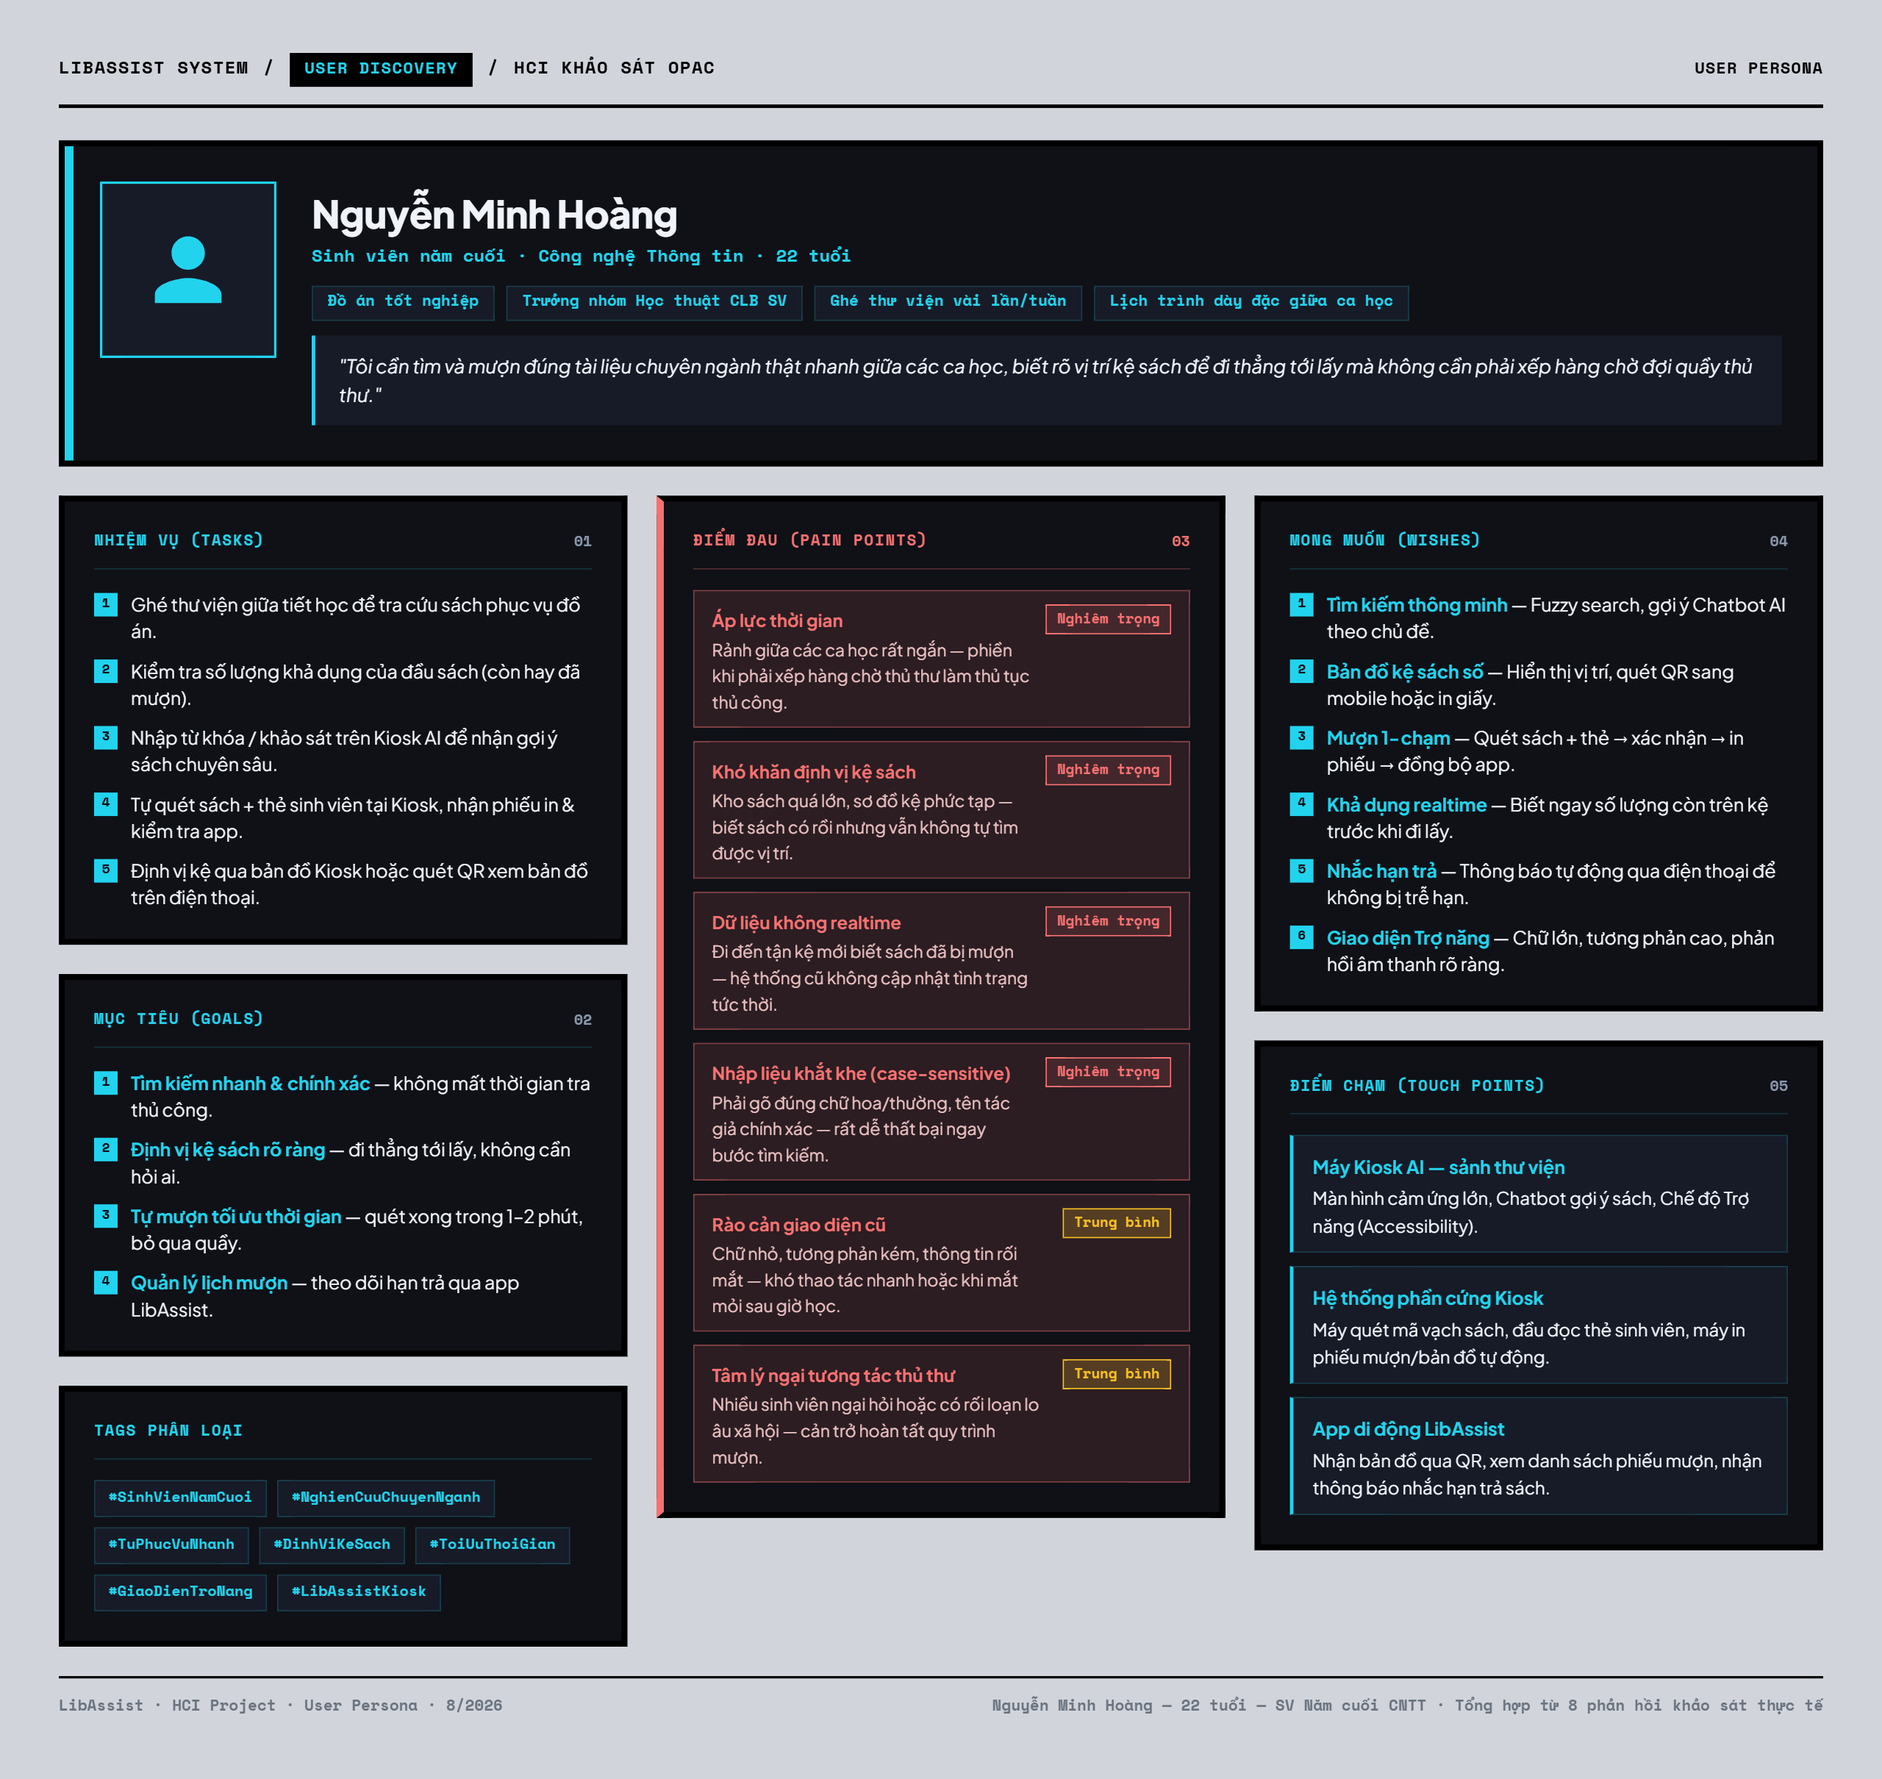
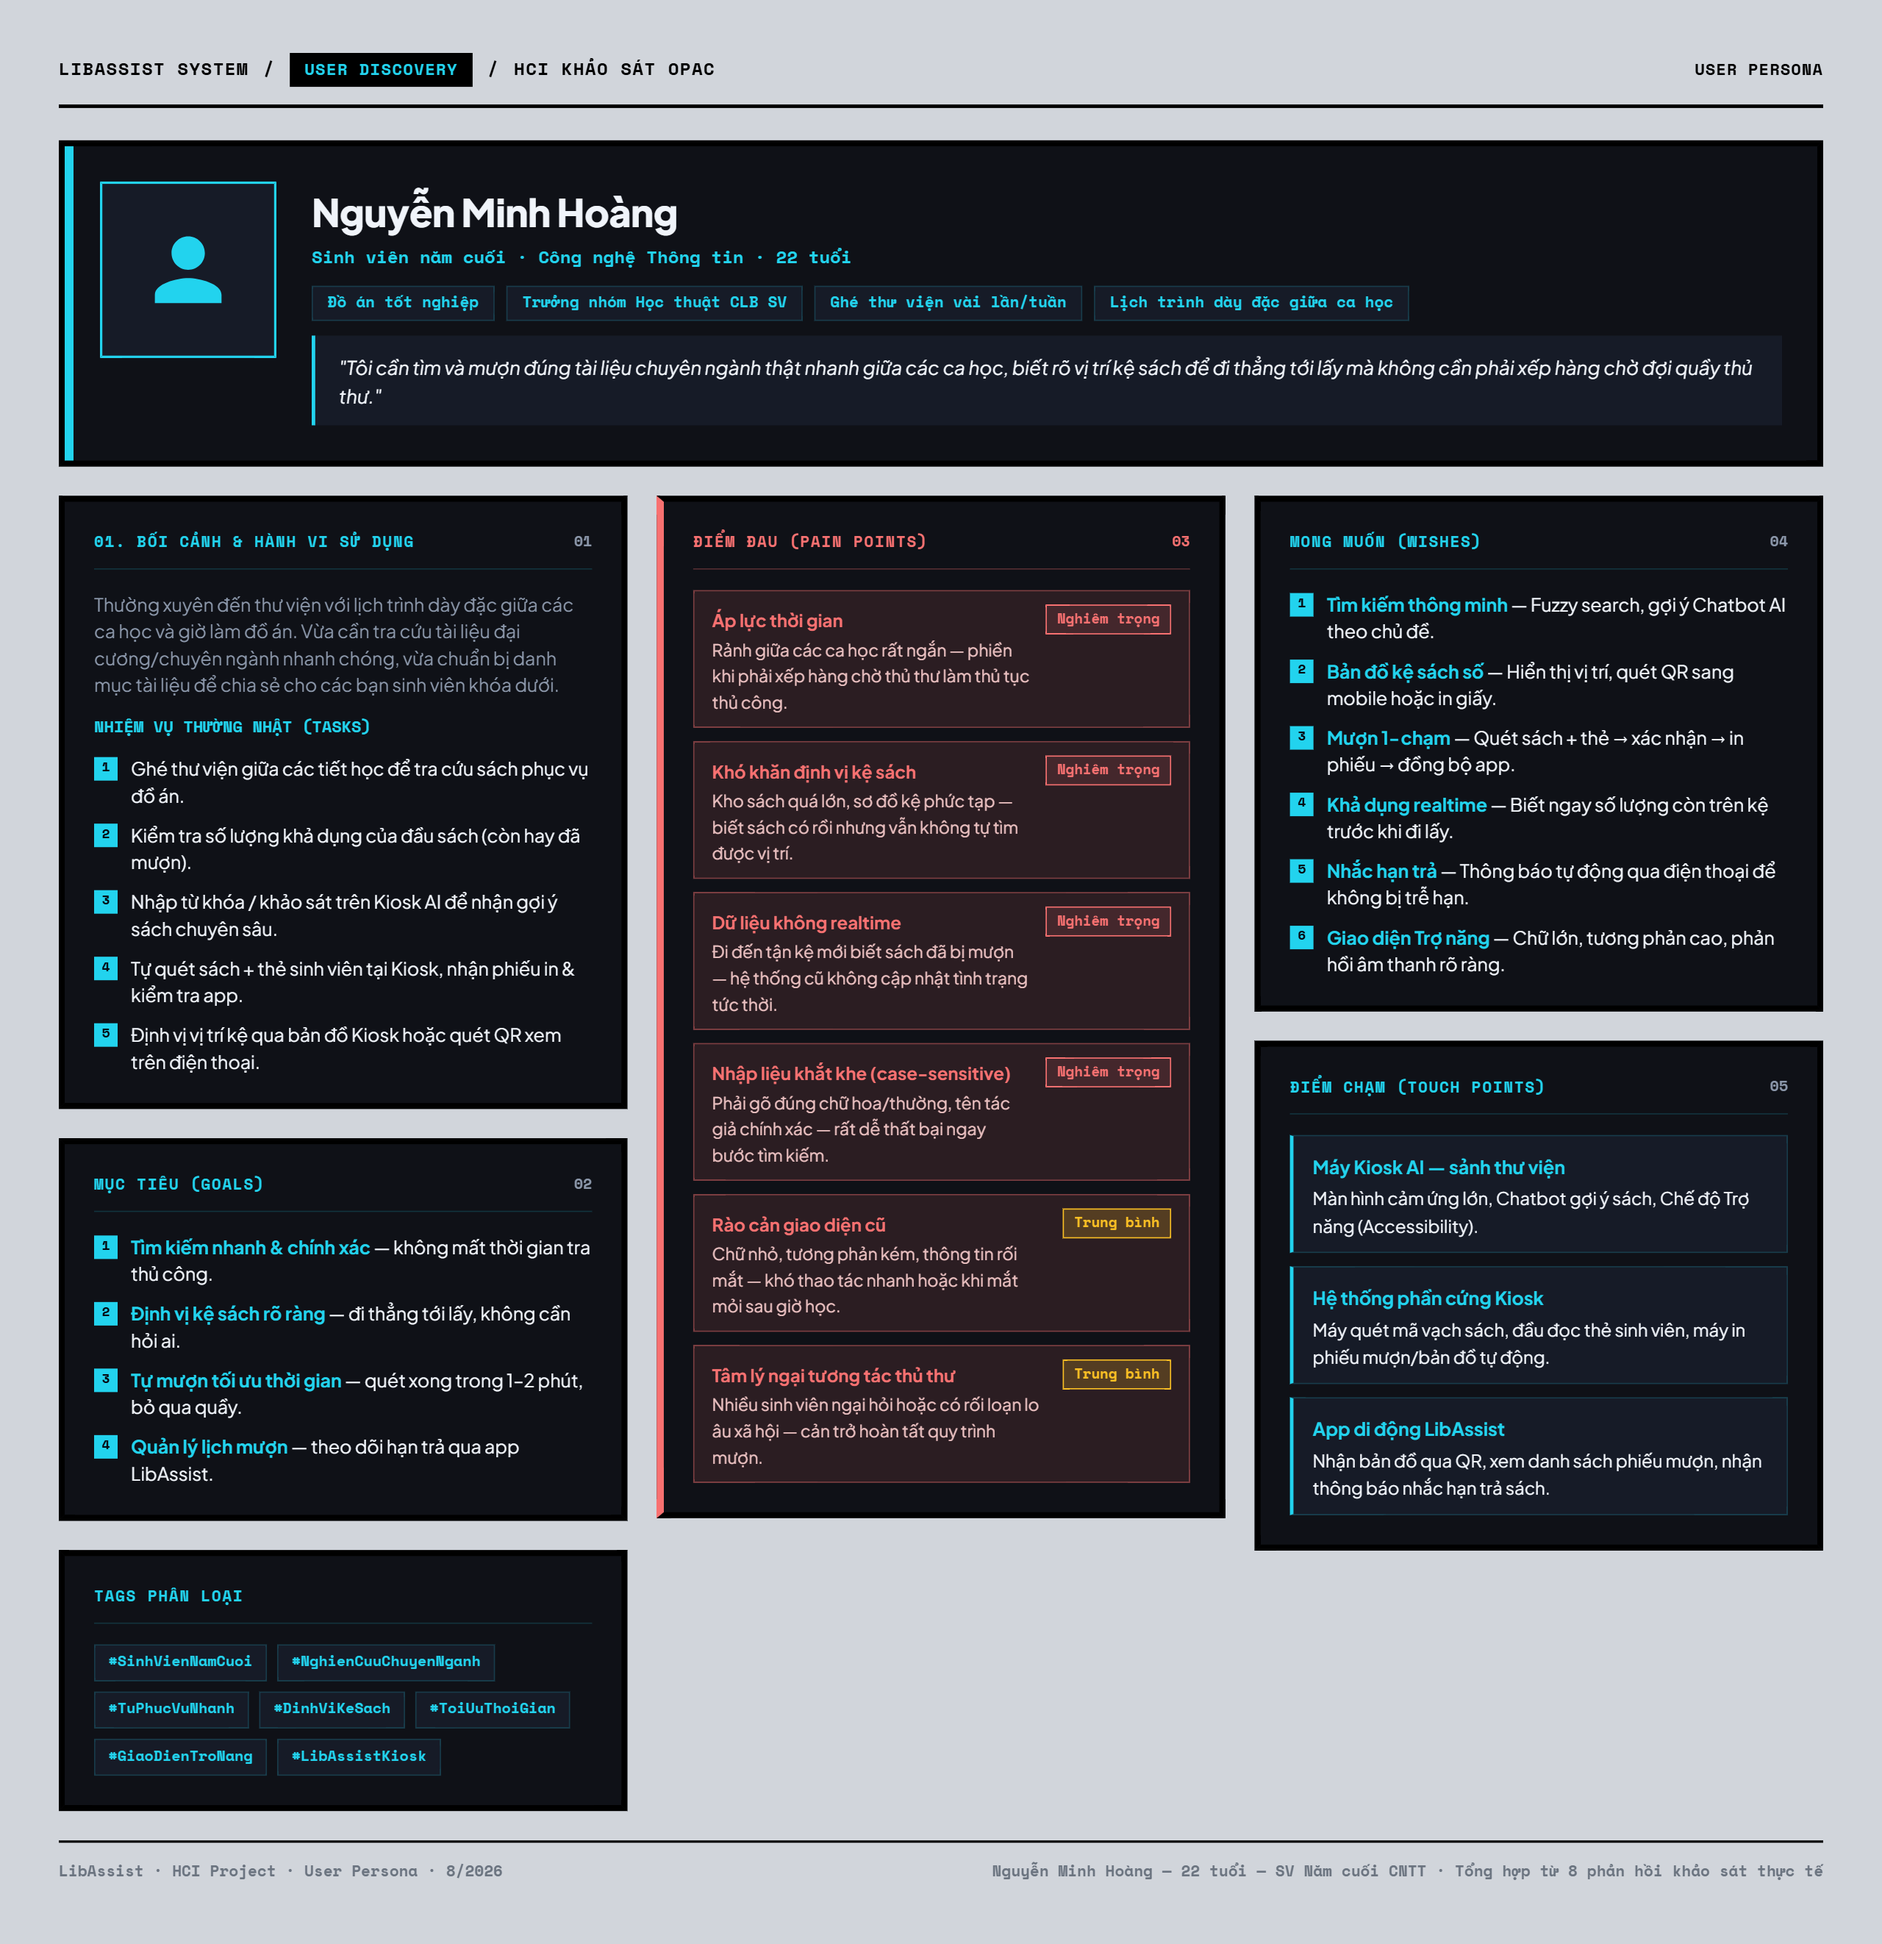
Update format

Changed region(s): [[0.0312, 0.031, 0.9688, 0.9607]]

diff --git a/persona/recreatepersona/personaver2.html b/persona/recreatepersona/personaver2.html
@@ -349,15 +349,19 @@ html, body {
 
       <section class="card">
         <div class="card-head">
-          <h2>Nhiệm vụ (Tasks)</h2>
+          <h2>01. Bối cảnh &amp; Hành vi sử dụng</h2>
           <span class="card-num">01</span>
         </div>
+        <p style="color: var(--muted); font-size: 12.5px; margin-bottom: 12px; line-height: 1.45;">
+          Thường xuyên đến thư viện với lịch trình dày đặc giữa các ca học và giờ làm đồ án. Vừa cần tra cứu tài liệu đại cương/chuyên ngành nhanh chóng, vừa chuẩn bị danh mục tài liệu để chia sẻ cho các bạn sinh viên khóa dưới.
+        </p>
+        <h3 style="font-size: 11px; font-weight: 700; color: var(--cyan); text-transform: uppercase; margin-bottom: 10px; font-family: var(--mono);">Nhiệm vụ thường nhật (Tasks)</h3>
         <ul class="dl">
-          <li class="di"><span class="sq">1</span><span>Ghé thư viện giữa tiết học để tra cứu sách phục vụ đồ án.</span></li>
+          <li class="di"><span class="sq">1</span><span>Ghé thư viện giữa các tiết học để tra cứu sách phục vụ đồ án.</span></li>
           <li class="di"><span class="sq">2</span><span>Kiểm tra số lượng khả dụng của đầu sách (còn hay đã mượn).</span></li>
           <li class="di"><span class="sq">3</span><span>Nhập từ khóa / khảo sát trên Kiosk AI để nhận gợi ý sách chuyên sâu.</span></li>
-          <li class="di"><span class="sq">4</span><span>Tự quét sách + thẻ sinh viên tại Kiosk, nhận phiếu in & kiểm tra app.</span></li>
-          <li class="di"><span class="sq">5</span><span>Định vị kệ qua bản đồ Kiosk hoặc quét QR xem bản đồ trên điện thoại.</span></li>
+          <li class="di"><span class="sq">4</span><span>Tự quét sách + thẻ sinh viên tại Kiosk, nhận phiếu in &amp; kiểm tra app.</span></li>
+          <li class="di"><span class="sq">5</span><span>Định vị vị trí kệ qua bản đồ Kiosk hoặc quét QR xem trên điện thoại.</span></li>
         </ul>
       </section>
 
